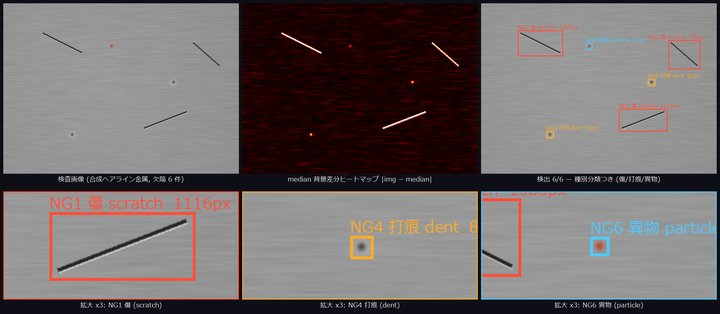
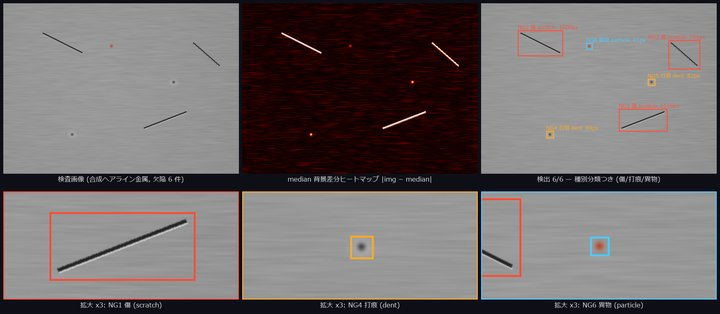
auto: gen_industrial_gallery.py 編集前 (2026-08-30 17:03)

diff --git a/tools/gen_industrial_gallery.py b/tools/gen_industrial_gallery.py
@@ -271,7 +271,7 @@ def subject_defect_metal(log=print) -> dict:
         cw, ch = 240, 110
         x0 = int(np.clip(cyx[1] - cw / 2, 0, W - cw))
         y0 = int(np.clip(cyx[0] - ch / 2, 0, H - ch))
-        crop = _to_u8(vis_np[y0:y0 + ch, x0:x0 + cw])
+        crop = _to_u8(vis_clean_np[y0:y0 + ch, x0:x0 + cw])
         zoom = Image.fromarray(crop, "RGB").resize((cw * 3, ch * 3),
                                                    Image.LANCZOS)
         zd = ImageDraw.Draw(zoom)
